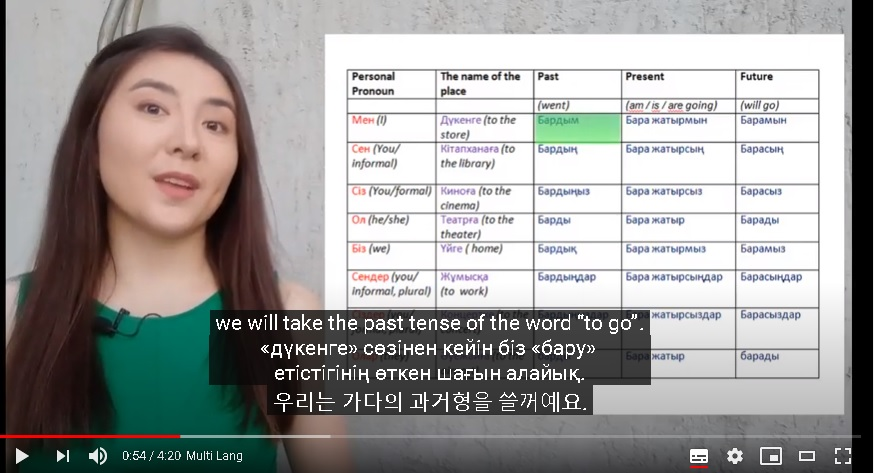
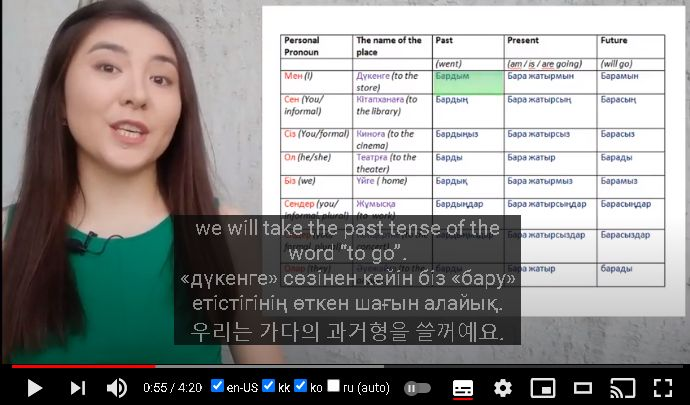
update youtube multi

diff --git a/youtube multi.user.js b/youtube multi.user.js
@@ -1,114 +1,186 @@
 // ==UserScript==
 // @name           Youtube Multi
-// @version        0.4
+// @version        0.5
 // @description    Adds additional Youtube subtitles
-// @include        https://www.youtube.com/watch?v=*
+// @match          https://www.youtube.com/*
 // @grant          none
+// @run-at         document-end
 // ==/UserScript==
 
 (function() {
-    const myLangs = 'en,ko,kk,ja'; // list all languages you want to be shown, languages codes are in ISO 639-1
-
-    if(location.href.startsWith('https://www.youtube.com/watch?v=')){
-
     const langHead = 'youtube-multi-lang';
 
-    const bookmarkletFunction=function (langHead,...langs){
-      
+    function bookmarkletFunction(langHead,optionalTag){
+
+      function tag(name){
+        return function (classes, parent, insertBefore) {
+          let el=parent.querySelector(classes);
+          if(!el){
+            el=document.createElement(name);
+            el.classList.add(...classes.split('.').filter(c=>c));
+            parent.insertBefore(el, insertBefore);
+          }
+        return el;
+      }}
+
+      if(optionalTag)return tag(optionalTag);
+
       const videoPlayer=document.querySelector('#movie_player');
       const playerClasses=videoPlayer.classList;
-  
+
+      function hideCheckboxesExcept(exceptArr){
+        document.querySelectorAll(`.${langHead}-checkbox`+exceptArr.map(c=>`:not(${c})`).join('')).forEach(n=>n.style.display='none');
+      }
+      
+      function getVideoId(){
+        return videoPlayer.getVideoData()['video_id'];        
+      }
+
+      const multiLangButton=document.querySelector('a.ytp-subtitles-button.ytp-button');
+      
       if(window.youtubeMultiLangCaptionsIntervalCode){
         clearInterval(window.youtubeMultiLangCaptionsIntervalCode);
         window.youtubeMultiLangCaptionsIntervalCode='';
-  
+
         playerClasses.remove(langHead);
+        hideCheckboxesExcept([]);
+        multiLangButton.setAttribute('aria-pressed','false');
         return;
       }
-  
-      const classes=langs.map((l, i) =>'.'+langHead+i);
-      const sortClasses=langs.map((l, i) =>classes.slice(i+1).join(','));
-  
-      sortClasses[0]='.caption-visual-line';
-      sortClasses[langs.length-1]=':not(*)';
-  
-      function div(classes, parent, insertBefore) {
-        var el=parent.querySelector(classes);
-        if(el)return el;
-        el=document.createElement('div');
-        el.classList.add(...classes.split('.').filter(c=>c));
-        parent.insertBefore(el, insertBefore);
-        return el;
+
+      const div=tag('div');
+      const label=tag('label');
+
+      const caps=div('.caption-window.ytp-caption-window-bottom.'+langHead, videoPlayer);
+
+      const controls=document.querySelector('.ytp-left-controls');
+
+      function fillSubs(){
+        const videoId=getVideoId();
+        if(!window.youtubeMultiLangCaptions)window.youtubeMultiLangCaptions=new Map();
+        if(window.youtubeMultiLangCaptions.has(videoId)) return Promise.resolve(window.youtubeMultiLangCaptions[videoId]);
+
+        const subs=window.youtubeMultiLangCaptions[videoId]=window.youtubeMultiLangCaptions[videoId]||new Map();
+
+        const captionTracks=videoPlayer.getPlayerResponse()?.captions?.playerCaptionsTracklistRenderer?.captionTracks||[];
+      
+        return Promise.all(captionTracks.flatMap(({baseUrl, vssId}) =>{
+                      if(subs.has(vssId))return Promise.resolve();
+
+                      const newSub = [];
+                      subs.set(vssId, newSub);
+                      return fetch(baseUrl).then(r=>r.text()).then(t=>
+                        new DOMParser().parseFromString(t.replace(/&amp;/g, '&'), 'text/xml').querySelectorAll('text').forEach(l => {
+                          const start = l.getAttribute('start') - 0;
+                          if (newSub.length) {
+                            const prevSub = newSub[newSub.length - 1];
+                            if (prevSub.start == prevSub.end)
+                              prevSub.end = start;
+                          }
+                          if (l.innerHTML.trim().length)
+                            newSub.push({ start, end: l.getAttribute('dur') - 0 + start, html: l.innerHTML, index: newSub.length });
+                      }))})).then(()=>subs);
       }
 
-      const subs=window.youtubeMultiLangCaptions=window.youtubeMultiLangCaptions||new Map();
-
-      const captionTracks=videoPlayer.getPlayerResponse().captions?.playerCaptionsTracklistRenderer?.captionTracks??[];
+      const checkboxClass=lang=>`.${langHead}-checkbox.${langHead}${lang}.${langHead}-watch${getVideoId()}`;
       
-      (subs.size?Promise.resolve():
-      Promise.all(captionTracks.flatMap(({baseUrl, vssId}) =>
-        langs.map((lang, langIndex) => {
-                        if(vssId == lang || vssId.startsWith(lang + '-')){
-                        const newSub = [];
-                        subs.set(langIndex, newSub);
-                        return fetch(baseUrl).then(r=>r.text()).then(t=>
-                          new DOMParser().parseFromString(t.replace(/&amp;/g, '&'), 'text/xml').querySelectorAll('text').forEach(l => {
-                            const start = l.getAttribute('start') - 0;
-                            if (newSub.length) {
-                              const prevSub = newSub[newSub.length - 1];
-                              if (prevSub.start == prevSub.end)
-                                prevSub.end = start;
-                            }
-                            if (l.innerHTML.trim().length)
-                              newSub.push({ start, end: l.getAttribute('dur') - 0 + start, html: l.innerHTML, index: newSub.length });
-                          }))}}))))
-      .then(()=>{if(subs.size<2)throw Error('Not enough language captions')})
-      .then(()=>window.youtubeMultiLangCaptionsIntervalCode=setInterval(()=>{
-          subs.forEach((sub, langIndex) => {
+      function fillSubAndCheckboxes(){
+        return fillSubs().then(subs=>{
+
+          caps.innerHTML='';
+
+          const originalMultiLang=document.querySelector('button.ytp-subtitles-button.ytp-button');
+        
+          multiLangButton.style.display=subs.size>0?originalMultiLang.style.display:'none';
+
+          const checkboxes=[...subs.keys()].map(index=>{
+            const cls=checkboxClass(index);
+            const checkBoxLabel=label(cls, controls);
+            checkBoxLabel.style.display='';
+            if(!checkBoxLabel.innerHTML){
+              const split=index.split('.');
+              const auto=split[0]=='a';
+              checkBoxLabel.innerHTML=`<input type=checkbox ${auto&&subs.size>1?'':'checked=checked'}></input>${split[1]}${auto?' (auto)':''}`;
+            }
+            return cls;
+          });
+          
+          hideCheckboxesExcept(subs.size>1?checkboxes:[]);
+        });
+      }
+
+      if(!videoPlayer.stateChangeListenerAdded){
+        videoPlayer.stateChangeListenerAdded=true;
+        videoPlayer.addEventListener('onStateChange',function(e){
+          if(e==-1) {
+            fillSubAndCheckboxes();
+          }
+        });
+      }
+
+      fillSubAndCheckboxes().then(()=>{
+        window.youtubeMultiLangCaptionsIntervalCode=setInterval(()=>{
+
+          const subs=window.youtubeMultiLangCaptions[getVideoId()];
+
+          const lines = div('.captions-text', caps);
+          
+          if(subs)subs.forEach((sub, langIndex) => {  
               const langClass = '.'+langHead+langIndex;
-  
-              const caps = div('.caption-window.ytp-caption-window-bottom.'+langHead, videoPlayer);
-  
-              const curTime = document.querySelector('video').getCurrentTime();
-              const lines = div('.captions-text', caps);
-  
+              const lineContainer=div(langClass+"-line-container", lines);
+              
               const oldLines = new Set([...lines.querySelectorAll(langClass)].map(l=>l.dataset.line-0));
-  
+              const checkbox=document.querySelector(`label${checkboxClass(langIndex)} input`);
+
+              const curTime = document.querySelector('video').getCurrentTime();
+
+              if(checkbox&&checkbox.checked)
               sub.forEach(({start,end,html,index}) => {
                         if(start<=curTime && curTime<end)
                         if (!oldLines.delete(index)) {
-                            const newLine = div(`.caption-visual-line${langClass}${langClass}-line${index}`, lines, caps.querySelector(sortClasses[langIndex]));
+                            const newLine = div(`.caption-visual-line${langClass}${langClass}-line${index}`, lineContainer);
                             newLine.dataset.line = index;
                             div('.ytp-caption-segment', newLine).innerHTML = html;
                             }});
-              if (oldLines.size) lines.querySelectorAll([...oldLines].map(l=>`${langClass}-line${l}`).join(',')).forEach(n=>n.remove());
-           })},100))
-       .then(()=>playerClasses.add(langHead),()=>playerClasses.add(langHead+'-error'))};
+              if(oldLines.size)lines.querySelectorAll([...oldLines].map(l=>`${langClass}-line${l}`).join(',')).forEach(n=>n.remove());
+           })
+          },100);
 
-    const bookmarkletAddress=`javascript:(${bookmarkletFunction.toString()})('${langHead}',${myLangs.split(',').map(t=>`".${t.toLowerCase()}"`)}),void(0)`;
+        playerClasses.add(langHead);
+        multiLangButton.setAttribute('aria-pressed','true');
+      });
+    };
 
-    function addElement(t,p){
-      var r=(p||document.body).appendChild(document.createElement(t));
-      var i=1;
-      while(arguments[++i])("|innerHTML|innerText|onclick|style|".indexOf("|"+arguments[i]+"|")!=-1)?r[arguments[i]]=arguments[++i]:r.setAttribute(arguments[i],arguments[++i]);
-      return r;}
+    const bookmarkletAddress=`javascript:(${bookmarkletFunction.toString()})('${langHead}'),void(0)`;
+
+    const style=bookmarkletFunction(0,'style');
     
-    setTimeout(()=>{
-      const controls = document.querySelector('.ytp-left-controls');
-      addElement('a', controls, 'innerText', 'Multi Lang', 'class', langHead+'-toggle', 'title', 'Shows multiple Youtube subtitles at once', 'href', bookmarkletAddress);
-      
-      addElement('style', 0, 'innerHTML', `
+    setInterval(()=>{      
+      const multiLangButton=document.querySelector('button.ytp-subtitles-button.ytp-button');
+
+      if(multiLangButton){
+        let aButton=document.querySelector('a.ytp-subtitles-button.ytp-button');
+        if(aButton){
+          aButton.style.display=multiLangButton.style.display;
+        }else {
+          aButton=multiLangButton.cloneNode(true);
+          multiLangButton.classList.add(langHead);
+          aButton.setAttribute('href',bookmarkletAddress);
+          multiLangButton.insertAdjacentHTML('beforebegin', aButton.outerHTML.replace('<button ','<a '));
+
+          style(langHead+'-style',document.body).innerHTML=`
 .caption-window.${langHead} {display: none !important; }
 #movie_player.${langHead} .caption-window {display: none !important; }
 #movie_player.${langHead} .caption-window.${langHead} {display: block !important }
 
-#movie_player.${langHead} .${langHead}-toggle::after { content: ' ON'; }
-#movie_player .${langHead}-toggle::after { content: ' OFF'; }
+button.ytp-subtitles-button.${langHead} { display:none }
+
+#movie_player.${langHead} label.${langHead}-checkbox { display:block; }
+#movie_player label.${langHead}-checkbox { display:none; }
 
 #movie_player.${langHead}-error .${langHead}-toggle { display: none }
 
-.caption-window.${langHead} { bottom: 2%; left: 25%; right: 25%; text-align: center; font-size: 21.3333px; color: rgb(255, 255, 255); font-family: "YouTube Noto", Roboto, "Arial Unicode Ms", Arial, Helvetica, Verdana, "PT Sans Caption", sans-serif; }
+.caption-window.${langHead} { bottom: 2%; left: 25%; right: 25%; text-align: center; font-size: 21.3333px; color: rgba(255, 255, 255,0.5); font-family: "YouTube Noto", Roboto, "Arial Unicode Ms", Arial, Helvetica, Verdana, "PT Sans Caption", sans-serif; }
 .caption-window.${langHead} .captions-text {display: inline-block; background: rgba(8, 8, 8, 0.75); fill: rgb(255, 255, 255); }
-`);
-    },700)}
+`;      }}},700);
 })()
